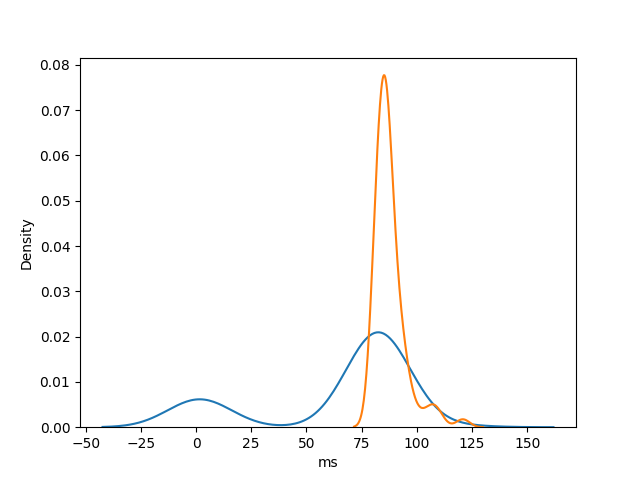
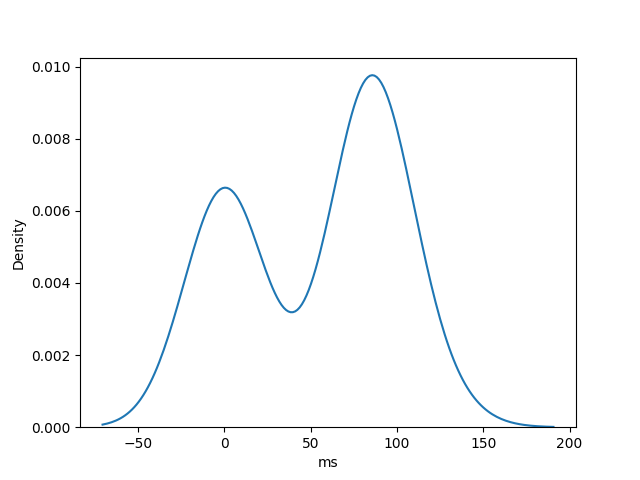
only count > 0

diff --git a/plots/README.md b/plots/README.md
@@ -9,13 +9,13 @@
 
 | Key         | Value                        |
 | ----------- | ---------------------------- |
-| Completions | 76  |
-| Mean        | 65ms |
-| STD         | 34ms  |
-| Q0          | 1ms   |
-| Q50         | 82ms  |
-| Q95         | 84ms  |
-| Q100        | 118ms |
+| Completions | 25  |
+| Mean        | 44ms |
+| STD         | 43ms  |
+| Q0          | 0ms   |
+| Q50         | 81ms  |
+| Q95         | 87ms  |
+| Q100        | 103ms |
 
 ![fig.img](https://raw.githubusercontent.com/ms-jpq/vim.bench/main/plots/c6426ab57e802fa08dcffe99fbfeac14.png)
 
@@ -28,13 +28,13 @@
 
 | Key         | Value                        |
 | ----------- | ---------------------------- |
-| Completions | 75  |
-| Mean        | 88ms |
-| STD         | 7ms  |
-| Q0          | 81ms   |
-| Q50         | 86ms  |
-| Q95         | 103ms  |
-| Q100        | 121ms |
+| Completions | 23  |
+| Mean        | 53ms |
+| STD         | 44ms  |
+| Q0          | 0ms   |
+| Q50         | 82ms  |
+| Q95         | 90ms  |
+| Q100        | 120ms |
 
 ![fig.img](https://raw.githubusercontent.com/ms-jpq/vim.bench/main/plots/78cc3e419d8cc2f802e43d486be1fb4f.png)
 
@@ -47,13 +47,13 @@
 
 | Key         | Value                        |
 | ----------- | ---------------------------- |
-| Completions | 79  |
-| Mean        | 81ms |
-| STD         | 33ms  |
-| Q0          | 2ms   |
-| Q50         | 86ms  |
-| Q95         | 103ms  |
-| Q100        | 216ms |
+| Completions | 30  |
+| Mean        | 42ms |
+| STD         | 48ms  |
+| Q0          | 0ms   |
+| Q50         | 2ms  |
+| Q95         | 92ms  |
+| Q100        | 176ms |
 
 ![fig.img](https://raw.githubusercontent.com/ms-jpq/vim.bench/main/plots/58dd12a5c42471f3e2e23eec0c8f0800.png)
 
@@ -66,13 +66,13 @@
 
 | Key         | Value                        |
 | ----------- | ---------------------------- |
-| Completions | 103  |
-| Mean        | 107ms |
-| STD         | 60ms  |
-| Q0          | 2ms   |
-| Q50         | 83ms  |
-| Q95         | 236ms  |
-| Q100        | 336ms |
+| Completions | 35  |
+| Mean        | 61ms |
+| STD         | 62ms  |
+| Q0          | 0ms   |
+| Q50         | 81ms  |
+| Q95         | 171ms  |
+| Q100        | 237ms |
 
 ![fig.img](https://raw.githubusercontent.com/ms-jpq/vim.bench/main/plots/bc190c7ef28b48a0f7c19b0b8622951d.png)
 
@@ -85,13 +85,13 @@
 
 | Key         | Value                        |
 | ----------- | ---------------------------- |
-| Completions | 95  |
-| Mean        | 100ms |
-| STD         | 46ms  |
-| Q0          | 2ms   |
-| Q50         | 84ms  |
-| Q95         | 202ms  |
-| Q100        | 302ms |
+| Completions | 31  |
+| Mean        | 60ms |
+| STD         | 68ms  |
+| Q0          | 0ms   |
+| Q50         | 81ms  |
+| Q95         | 114ms  |
+| Q100        | 260ms |
 
 ![fig.img](https://raw.githubusercontent.com/ms-jpq/vim.bench/main/plots/21b9d82fd3a81ea3309e1d5ea8b54945.png)
 
@@ -104,13 +104,13 @@
 
 | Key         | Value                        |
 | ----------- | ---------------------------- |
-| Completions | 68  |
-| Mean        | 41ms |
-| STD         | 12ms  |
-| Q0          | 29ms   |
-| Q50         | 36ms  |
-| Q95         | 64ms  |
-| Q100        | 79ms |
+| Completions | 22  |
+| Mean        | 27ms |
+| STD         | 20ms  |
+| Q0          | 0ms   |
+| Q50         | 33ms  |
+| Q95         | 46ms  |
+| Q100        | 60ms |
 
 ![fig.img](https://raw.githubusercontent.com/ms-jpq/vim.bench/main/plots/b5a0628258631a855e2b954dce9d61b7.png)
 
@@ -123,13 +123,13 @@
 
 | Key         | Value                        |
 | ----------- | ---------------------------- |
-| Completions | 75  |
-| Mean        | 73ms |
-| STD         | 24ms  |
-| Q0          | 39ms   |
-| Q50         | 80ms  |
-| Q95         | 105ms  |
-| Q100        | 114ms |
+| Completions | 23  |
+| Mean        | 47ms |
+| STD         | 44ms  |
+| Q0          | 0ms   |
+| Q50         | 42ms  |
+| Q95         | 106ms  |
+| Q100        | 115ms |
 
 ![fig.img](https://raw.githubusercontent.com/ms-jpq/vim.bench/main/plots/ad82d296990a5c5c2557f2e7af158e63.png)
 
@@ -142,13 +142,13 @@
 
 | Key         | Value                        |
 | ----------- | ---------------------------- |
-| Completions | 78  |
-| Mean        | 82ms |
-| STD         | 26ms  |
-| Q0          | 36ms   |
-| Q50         | 89ms  |
-| Q95         | 117ms  |
-| Q100        | 132ms |
+| Completions | 25  |
+| Mean        | 42ms |
+| STD         | 32ms  |
+| Q0          | 0ms   |
+| Q50         | 53ms  |
+| Q95         | 80ms  |
+| Q100        | 81ms |
 
 ![fig.img](https://raw.githubusercontent.com/ms-jpq/vim.bench/main/plots/675da12f4bded28a8a71ca93d7911b30.png)
 
@@ -161,13 +161,13 @@
 
 | Key         | Value                        |
 | ----------- | ---------------------------- |
-| Completions | 91  |
-| Mean        | 101ms |
-| STD         | 38ms  |
-| Q0          | 1ms   |
-| Q50         | 102ms  |
-| Q95         | 166ms  |
-| Q100        | 236ms |
+| Completions | 29  |
+| Mean        | 63ms |
+| STD         | 67ms  |
+| Q0          | 0ms   |
+| Q50         | 62ms  |
+| Q95         | 142ms  |
+| Q100        | 295ms |
 
 ![fig.img](https://raw.githubusercontent.com/ms-jpq/vim.bench/main/plots/77d454f58a6c11696a39a2b4a31ad13f.png)
 
@@ -180,13 +180,13 @@
 
 | Key         | Value                        |
 | ----------- | ---------------------------- |
-| Completions | 93  |
-| Mean        | 86ms |
-| STD         | 54ms  |
-| Q0          | 1ms   |
-| Q50         | 76ms  |
-| Q95         | 204ms  |
-| Q100        | 273ms |
+| Completions | 30  |
+| Mean        | 64ms |
+| STD         | 75ms  |
+| Q0          | 0ms   |
+| Q50         | 48ms  |
+| Q95         | 218ms  |
+| Q100        | 301ms |
 
 ![fig.img](https://raw.githubusercontent.com/ms-jpq/vim.bench/main/plots/3b523c9b210a67f020683294edb06b04.png)
 
